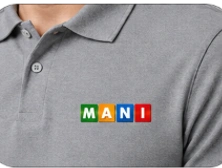
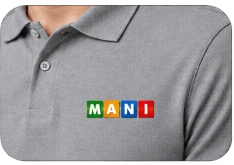
refactor(showcase): align Client Uniform Showcase with exact reference design, thin line loader, home page typography, and compact side cards

diff --git a/src/pages/Categories/components/ClientUniformShowcase.tsx b/src/pages/Categories/components/ClientUniformShowcase.tsx
@@ -20,22 +20,22 @@ const DEFAULT_SLIDES: ShowcaseSlide[] = [
     id: 'golden-golisoda',
     brand: 'Golden Golisoda',
     subtitle: 'Signature Maroon Corporate Pique Polo',
-    modelImage: '/assets/images/products/showcase/ref-model-stage.webp',
+    modelImage: '/assets/images/products/showcase/golden-golisoda-model-clean.webp',
     details: [
       {
         id: 'chest',
-        title: 'Precision Chest Crest',
-        image: '/assets/images/products/showcase/ref-card-1.webp',
+        title: 'Chest Embroidery',
+        image: '/assets/images/products/showcase/golden-golisoda-card-1.webp',
       },
       {
         id: 'sleeve',
-        title: 'Sleeve Brand Monogram',
-        image: '/assets/images/products/showcase/ref-card-2.webp',
+        title: 'Sleeve Badge',
+        image: '/assets/images/products/showcase/golden-golisoda-card-2.webp',
       },
       {
         id: 'collar',
-        title: 'Crisp Collar & Placket Finish',
-        image: '/assets/images/products/showcase/ref-card-3.webp',
+        title: 'Collar & Placket',
+        image: '/assets/images/products/showcase/golden-golisoda-card-3.webp',
       },
     ],
   },
@@ -43,21 +43,21 @@ const DEFAULT_SLIDES: ShowcaseSlide[] = [
     id: 'mani',
     brand: 'MANI Group',
     subtitle: 'Executive Grey Combed Cotton Polo',
-    modelImage: '/assets/images/products/showcase/mani-model.webp',
+    modelImage: '/assets/images/products/showcase/mani-model-clean.webp',
     details: [
       {
         id: 'chest',
-        title: 'Vibrant Multi-Color Monogram',
+        title: 'Chest Monogram',
         image: '/assets/images/products/showcase/mani-card-1.webp',
       },
       {
         id: 'sleeve',
-        title: 'Color-Fast Sleeve Placement',
+        title: 'Sleeve Placement',
         image: '/assets/images/products/showcase/mani-card-2.webp',
       },
       {
         id: 'collar',
-        title: 'Seamless Collar & Placket Finish',
+        title: 'Collar & Back Crest',
         image: '/assets/images/products/showcase/mani-card-3.webp',
       },
     ],
@@ -72,30 +72,46 @@ export const ClientUniformShowcase: React.FC<ClientUniformShowcaseProps> = ({
   slides = DEFAULT_SLIDES,
 }) => {
   const [currentIndex, setCurrentIndex] = useState(0);
+  const [progress, setProgress] = useState(0);
   const [isPaused, setIsPaused] = useState(false);
   const touchStartX = useRef<number | null>(null);
   const touchEndX = useRef<number | null>(null);
 
   const totalSlides = slides.length;
   const currentSlide = slides[currentIndex];
+  const slideDuration = 5000; // 5 seconds per slide
 
   const nextSlide = () => {
+    setProgress(0);
     setCurrentIndex((prev) => (prev + 1) % totalSlides);
   };
 
   const prevSlide = () => {
+    setProgress(0);
     setCurrentIndex((prev) => (prev - 1 + totalSlides) % totalSlides);
   };
 
-  // Auto-advance carousel every 6 seconds when not hovered
+  // Smooth thin-line loader animation and auto-advance
   useEffect(() => {
     if (isPaused || totalSlides <= 1) return;
+
+    const intervalTime = 50; // update every 50ms
+    const step = (intervalTime / slideDuration) * 100;
+
     const timer = setInterval(() => {
-      nextSlide();
-    }, 6000);
+      setProgress((prev) => {
+        if (prev >= 100) {
+          nextSlide();
+          return 0;
+        }
+        return prev + step;
+      });
+    }, intervalTime);
+
     return () => clearInterval(timer);
   }, [currentIndex, isPaused, totalSlides]);
 
+  // Touch swipe handling for mobile
   const handleTouchStart = (e: React.TouchEvent) => {
     touchStartX.current = e.touches[0].clientX;
   };
@@ -107,9 +123,9 @@ export const ClientUniformShowcase: React.FC<ClientUniformShowcaseProps> = ({
   const handleTouchEnd = () => {
     if (!touchStartX.current || !touchEndX.current) return;
     const distance = touchStartX.current - touchEndX.current;
-    if (distance > 40) {
+    if (distance > 45) {
       nextSlide();
-    } else if (distance < -40) {
+    } else if (distance < -45) {
       prevSlide();
     }
     touchStartX.current = null;
@@ -118,7 +134,7 @@ export const ClientUniformShowcase: React.FC<ClientUniformShowcaseProps> = ({
 
   return (
     <section
-      className="relative w-full py-6 sm:py-8 lg:py-10 bg-[#FAF7F4] select-none overflow-hidden"
+      className="relative w-full py-6 sm:py-8 lg:py-10 bg-[#FFFDF9] select-none overflow-hidden"
       onMouseEnter={() => setIsPaused(true)}
       onMouseLeave={() => setIsPaused(false)}
       onTouchStart={handleTouchStart}
@@ -126,89 +142,112 @@ export const ClientUniformShowcase: React.FC<ClientUniformShowcaseProps> = ({
       onTouchEnd={handleTouchEnd}
       aria-label="Client Uniform Showcase"
     >
-      <div className="max-w-[1360px] mx-auto px-4 sm:px-6 lg:px-8 relative z-10">
-        {/* DESKTOP VIEW (Exact Reference Image 2 Alignment & Proportions) */}
-        <div className="hidden lg:grid lg:grid-cols-12 gap-6 xl:gap-8 items-center">
-          {/* Left Column: Heading + Model with background silhouettes */}
-          <div className="lg:col-span-8 xl:col-span-9 flex flex-col justify-between">
-            {/* Header Content matching Home Page Font Styles */}
-            <div className="text-left space-y-1.5 max-w-2xl">
-              <span className="text-xs font-heading font-extrabold uppercase tracking-[0.2em] text-[#80011F] block">
+      <div className="max-w-[1400px] mx-auto px-4 sm:px-6 lg:px-8 relative z-10">
+        {/* DESKTOP VIEW (Exact Layout Matching Reference Image 2) */}
+        <div className="hidden lg:flex items-center justify-between gap-6 xl:gap-10">
+          {/* Left Column: Heading, Subtitle, Model with Animated Background & Thin Line Loader */}
+          <div className="flex-1 flex flex-col justify-between max-w-[820px] xl:max-w-[880px]">
+            {/* Header Content with Home Page Typography */}
+            <div className="text-left space-y-2">
+              <span className="text-xs sm:text-[13px] font-heading font-extrabold uppercase tracking-widest text-[#82132C] block">
                 Client Uniform Showcase
               </span>
-              <h2 className="text-3xl sm:text-4xl lg:text-[42px] font-heading font-black text-charcoal-900 leading-[1.1] tracking-tight">
+              <h2 className="text-3xl sm:text-4xl lg:text-[40px] xl:text-[44px] font-heading font-black tracking-tight text-charcoal-900 leading-[1.08]">
                 Uniforms, Made for{' '}
-                <span className="font-heading font-black italic text-[#80011F]">Your Brand</span>
+                <span className="font-heading font-black italic text-[#82132C]">Your Brand</span>
               </h2>
-              <p className="text-xs sm:text-sm lg:text-[15px] text-charcoal-600 font-sans leading-relaxed max-w-xl font-normal pt-0.5">
+              <p className="text-sm sm:text-[15px] text-charcoal-600 font-normal leading-relaxed max-w-xl">
                 From branded polos to team uniforms, see how custom embroidery, print placement and
                 garment finishes bring each brand to life.
               </p>
             </div>
 
             {/* Model Presentation Stage with Background Animation & Silhouettes */}
-            <div className="relative mt-2 xl:mt-4 flex items-center justify-center min-h-[340px] xl:min-h-[380px]">
-              {/* Subtle ambient light pulse behind models */}
-              <div className="absolute inset-0 flex items-center justify-center pointer-events-none">
-                <div className="w-[80%] h-[75%] rounded-full bg-burgundy-100/30 blur-3xl animate-pulse" />
+            <div className="relative mt-3 flex items-center justify-center min-h-[360px] xl:min-h-[390px] overflow-visible">
+              {/* Animated Warm Ambient Glow Spotlight behind model */}
+              <div className="absolute top-1/2 left-1/2 -translate-x-1/2 -translate-y-1/2 w-[340px] h-[340px] rounded-full bg-gradient-to-r from-burgundy-100/35 via-warm-100/50 to-burgundy-50/25 blur-3xl pointer-events-none animate-pulse" />
+
+              {/* Background Silhouette: Left Staff Silhouettes */}
+              <div className="absolute left-6 xl:left-12 bottom-2 w-[130px] xl:w-[150px] opacity-30 pointer-events-none transition-opacity duration-500">
+                <img
+                  src="/assets/images/products/showcase/silhouettes-left.webp"
+                  alt="Staff Uniform Silhouette"
+                  className="w-full h-auto object-contain filter grayscale contrast-125"
+                />
               </div>
 
-              {/* Main Model View (with background silhouettes) */}
-              <div className="relative w-full max-w-[620px] xl:max-w-[660px] flex items-center justify-center">
+              {/* Background Silhouette: Right Staff Silhouettes */}
+              <div className="absolute right-12 xl:right-20 bottom-2 w-[85px] xl:w-[95px] opacity-30 pointer-events-none transition-opacity duration-500">
+                <img
+                  src="/assets/images/products/showcase/silhouettes-right.webp"
+                  alt="Staff Uniform Silhouette"
+                  className="w-full h-auto object-contain filter grayscale contrast-125"
+                />
+              </div>
+
+              {/* Prev Navigation Button */}
+              <button
+                onClick={prevSlide}
+                aria-label="Previous uniform showcase"
+                className="absolute left-2 z-20 w-10 h-10 rounded-full bg-white/95 hover:bg-white text-charcoal-800 hover:text-burgundy-700 shadow-[0_4px_14px_rgba(0,0,0,0.12)] border border-charcoal-200/80 flex items-center justify-center transition-all duration-300 hover:scale-105 active:scale-95 cursor-pointer"
+              >
+                <ChevronLeft className="w-5 h-5 stroke-[2.2]" />
+              </button>
+
+              {/* Main Model Front & Back Cutout (Waist-Up, exact to Reference Image 2) */}
+              <div className="relative z-10 w-full max-w-[480px] xl:max-w-[530px] flex items-center justify-center">
                 <img
                   key={currentSlide.id}
                   src={currentSlide.modelImage}
                   alt={`${currentSlide.brand} showcase`}
-                  className="w-full h-auto max-h-[350px] xl:max-h-[390px] object-contain transition-all duration-500 animate-fadeIn"
+                  className="w-full h-auto max-h-[350px] xl:max-h-[380px] object-contain drop-shadow-[0_14px_24px_rgba(0,0,0,0.10)] transition-all duration-500"
                 />
               </div>
+
+              {/* Next Navigation Button */}
+              <button
+                onClick={nextSlide}
+                aria-label="Next uniform showcase"
+                className="absolute right-4 z-20 w-10 h-10 rounded-full bg-white/95 hover:bg-white text-charcoal-800 hover:text-burgundy-700 shadow-[0_4px_14px_rgba(0,0,0,0.12)] border border-charcoal-200/80 flex items-center justify-center transition-all duration-300 hover:scale-105 active:scale-95 cursor-pointer"
+              >
+                <ChevronRight className="w-5 h-5 stroke-[2.2]" />
+              </button>
             </div>
 
-            {/* Minimalist Thin Line Loader (No count text, ultra-clean) */}
-            <div className="flex items-center gap-3 pt-2">
-              <div className="flex items-center gap-2">
-                {slides.map((_, idx) => (
-                  <button
-                    key={idx}
-                    onClick={() => setCurrentIndex(idx)}
-                    aria-label={`Showcase slide ${idx + 1}`}
-                    className="group relative h-[3px] w-14 sm:w-16 rounded-full bg-charcoal-300/40 overflow-hidden cursor-pointer transition-all duration-300"
-                  >
+            {/* Bottom Loader Option: Sleek Thin Line Indicator (No Count Text) */}
+            <div className="flex items-center gap-2.5 pt-2">
+              {slides.map((_, idx) => (
+                <button
+                  key={idx}
+                  onClick={() => {
+                    setProgress(0);
+                    setCurrentIndex(idx);
+                  }}
+                  aria-label={`Go to slide ${idx + 1}`}
+                  className="relative h-[3px] rounded-full overflow-hidden transition-all duration-300 cursor-pointer"
+                  style={{ width: currentIndex === idx ? '56px' : '26px' }}
+                >
+                  {/* Track line */}
+                  <div className="absolute inset-0 bg-charcoal-200/90 rounded-full" />
+                  {/* Active animated thin filling line */}
+                  {currentIndex === idx && (
                     <div
-                      className={`h-full bg-[#80011F] transition-all duration-500 rounded-full ${
-                        currentIndex === idx ? 'w-full' : 'w-0'
-                      }`}
+                      className="absolute inset-y-0 left-0 bg-[#82132C] rounded-full transition-all duration-75 ease-linear"
+                      style={{ width: `${progress}%` }}
                     />
-                  </button>
-                ))}
-              </div>
-
-              {/* Discrete compact prev/next controls */}
-              <div className="flex items-center gap-1.5 ml-2">
-                <button
-                  onClick={prevSlide}
-                  aria-label="Previous showcase"
-                  className="w-7 h-7 rounded-full bg-white/80 hover:bg-[#80011F] hover:text-white text-charcoal-600 border border-burgundy-100/60 flex items-center justify-center transition-all duration-200 cursor-pointer shadow-2xs"
-                >
-                  <ChevronLeft className="w-3.5 h-3.5" />
+                  )}
                 </button>
-                <button
-                  onClick={nextSlide}
-                  aria-label="Next showcase"
-                  className="w-7 h-7 rounded-full bg-white/80 hover:bg-[#80011F] hover:text-white text-charcoal-600 border border-burgundy-100/60 flex items-center justify-center transition-all duration-200 cursor-pointer shadow-2xs"
-                >
-                  <ChevronRight className="w-3.5 h-3.5" />
-                </button>
-              </div>
+              ))}
             </div>
           </div>
 
-          {/* Right Column: 3 Compact Stacked Images directly with rounded corners, NO white card borders */}
-          <div className="lg:col-span-4 xl:col-span-3 flex flex-col items-end gap-3 xl:gap-3.5">
+          {/* Right Column: 3 Compact Stacked Detail Cards (Exact to Reference Image 2) */}
+          {/* No white background, no white border around image, strictly decreased size */}
+          <div className="w-[210px] xl:w-[235px] shrink-0 flex flex-col gap-3.5 xl:gap-4">
             {currentSlide.details.map((detail, idx) => (
               <div
                 key={`${currentSlide.id}-${detail.id}-${idx}`}
-                className="w-[190px] xl:w-[215px] aspect-[4/3] rounded-2xl overflow-hidden shadow-sm hover:shadow-md transition-transform duration-300 hover:scale-[1.02]"
+                className="relative w-full rounded-2xl overflow-hidden shadow-[0_6px_16px_rgba(0,0,0,0.12)] hover:shadow-[0_10px_24px_rgba(0,0,0,0.18)] transition-all duration-300 hover:scale-[1.02] aspect-[16/11] bg-transparent"
               >
                 <img
                   src={detail.image}
@@ -220,59 +259,67 @@ export const ClientUniformShowcase: React.FC<ClientUniformShowcaseProps> = ({
           </div>
         </div>
 
-        {/* MOBILE VIEW (Fitted cleanly within viewport) */}
-        <div className="lg:hidden flex flex-col space-y-3 text-left">
+        {/* MOBILE & TABLET VIEW (Compact, perfectly fitting viewport) */}
+        <div className="lg:hidden flex flex-col space-y-4 text-left">
           {/* Header Content */}
-          <div className="space-y-1">
-            <span className="text-[11px] font-heading font-extrabold uppercase tracking-[0.2em] text-[#80011F] block">
+          <div className="space-y-1.5">
+            <span className="text-[11px] font-heading font-extrabold uppercase tracking-widest text-[#82132C] block">
               Client Uniform Showcase
             </span>
-            <h2 className="text-2xl sm:text-3xl font-heading font-black text-charcoal-900 leading-[1.12] tracking-tight">
+            <h2 className="text-2xl sm:text-3xl font-heading font-black tracking-tight text-charcoal-900 leading-[1.12]">
               Uniforms, Made for <br />
-              <span className="font-heading font-black italic text-[#80011F]">Your Brand</span>
+              <span className="font-heading font-black italic text-[#82132C]">Your Brand</span>
             </h2>
-            <p className="text-xs sm:text-sm text-charcoal-600 font-sans leading-relaxed font-normal">
+            <p className="text-xs sm:text-sm text-charcoal-600 font-normal leading-relaxed max-w-lg">
               From branded polos to team uniforms, see how custom embroidery, print placement and
               garment finishes bring each brand to life.
             </p>
           </div>
 
-          {/* Main Centered Model Presentation */}
-          <div className="relative py-1 flex items-center justify-center">
-            <div className="w-full max-w-[340px] sm:max-w-[400px] flex items-center justify-center">
+          {/* Main Centered Model Presentation with ambient spotlight */}
+          <div className="relative py-1 flex items-center justify-center min-h-[220px]">
+            <div className="absolute top-1/2 left-1/2 -translate-x-1/2 -translate-y-1/2 w-[220px] h-[220px] rounded-full bg-burgundy-100/35 blur-2xl pointer-events-none" />
+
+            <div className="relative z-10 w-full max-w-[320px] flex items-center justify-center">
               <img
                 key={currentSlide.id}
                 src={currentSlide.modelImage}
                 alt={`${currentSlide.brand} showcase`}
-                className="w-full h-auto max-h-[260px] sm:max-h-[300px] object-contain transition-all duration-500"
+                className="w-full h-auto max-h-[220px] sm:max-h-[260px] object-contain drop-shadow-[0_10px_20px_rgba(0,0,0,0.10)] transition-all duration-500"
               />
             </div>
           </div>
 
-          {/* Thin Line Loader on Mobile */}
+          {/* Thin Line Loader for Mobile (No count text) */}
           <div className="flex items-center justify-center gap-2 py-1">
             {slides.map((_, idx) => (
               <button
                 key={idx}
-                onClick={() => setCurrentIndex(idx)}
-                aria-label={`Showcase slide ${idx + 1}`}
-                className="h-[3px] w-10 sm:w-12 rounded-full bg-charcoal-300/40 overflow-hidden cursor-pointer"
+                onClick={() => {
+                  setProgress(0);
+                  setCurrentIndex(idx);
+                }}
+                aria-label={`Go to slide ${idx + 1}`}
+                className="relative h-[3px] rounded-full overflow-hidden transition-all duration-300 cursor-pointer"
+                style={{ width: currentIndex === idx ? '44px' : '20px' }}
               >
-                <div
-                  className={`h-full bg-[#80011F] transition-all duration-500 rounded-full ${
-                    currentIndex === idx ? 'w-full' : 'w-0'
-                  }`}
-                />
+                <div className="absolute inset-0 bg-charcoal-200/90 rounded-full" />
+                {currentIndex === idx && (
+                  <div
+                    className="absolute inset-y-0 left-0 bg-[#82132C] rounded-full transition-all duration-75 ease-linear"
+                    style={{ width: `${progress}%` }}
+                  />
+                )}
               </button>
             ))}
           </div>
 
-          {/* 3 Horizontal Detail Thumbnails (Direct Images, NO white background) */}
-          <div className="grid grid-cols-3 gap-2 sm:gap-3 pt-1">
+          {/* 3 Horizontal Compact Detail Cards: No white borders, pure image */}
+          <div className="grid grid-cols-3 gap-2 sm:gap-3 max-w-md mx-auto w-full pt-1">
             {currentSlide.details.map((detail, idx) => (
               <div
                 key={`${currentSlide.id}-mobile-${detail.id}-${idx}`}
-                className="rounded-xl overflow-hidden aspect-square shadow-2xs"
+                className="relative rounded-xl overflow-hidden shadow-[0_4px_12px_rgba(0,0,0,0.10)] aspect-square bg-transparent"
               >
                 <img
                   src={detail.image}

diff --git a/src/pages/Categories/CategoryPage.tsx b/src/pages/Categories/CategoryPage.tsx
@@ -239,10 +239,10 @@ export const CategoryPage: React.FC<CategoryPageProps> = ({ forcedSlug, onOpenQu
               fill="#F8D0D6"
               opacity="0.65"
             />
-            {/* Main Showcase Section Warm Cream Wave (#FAF7F4) */}
+            {/* Main Showcase Section Warm Cream Wave (#FFFDF9) */}
             <path
               d="M0,32 C280,64 620,68 960,35 C1160,18 1340,36 1440,46 L1440,70 L0,70 Z"
-              fill="#FAF7F4"
+              fill="#FFFDF9"
             />
           </svg>
         </div>
